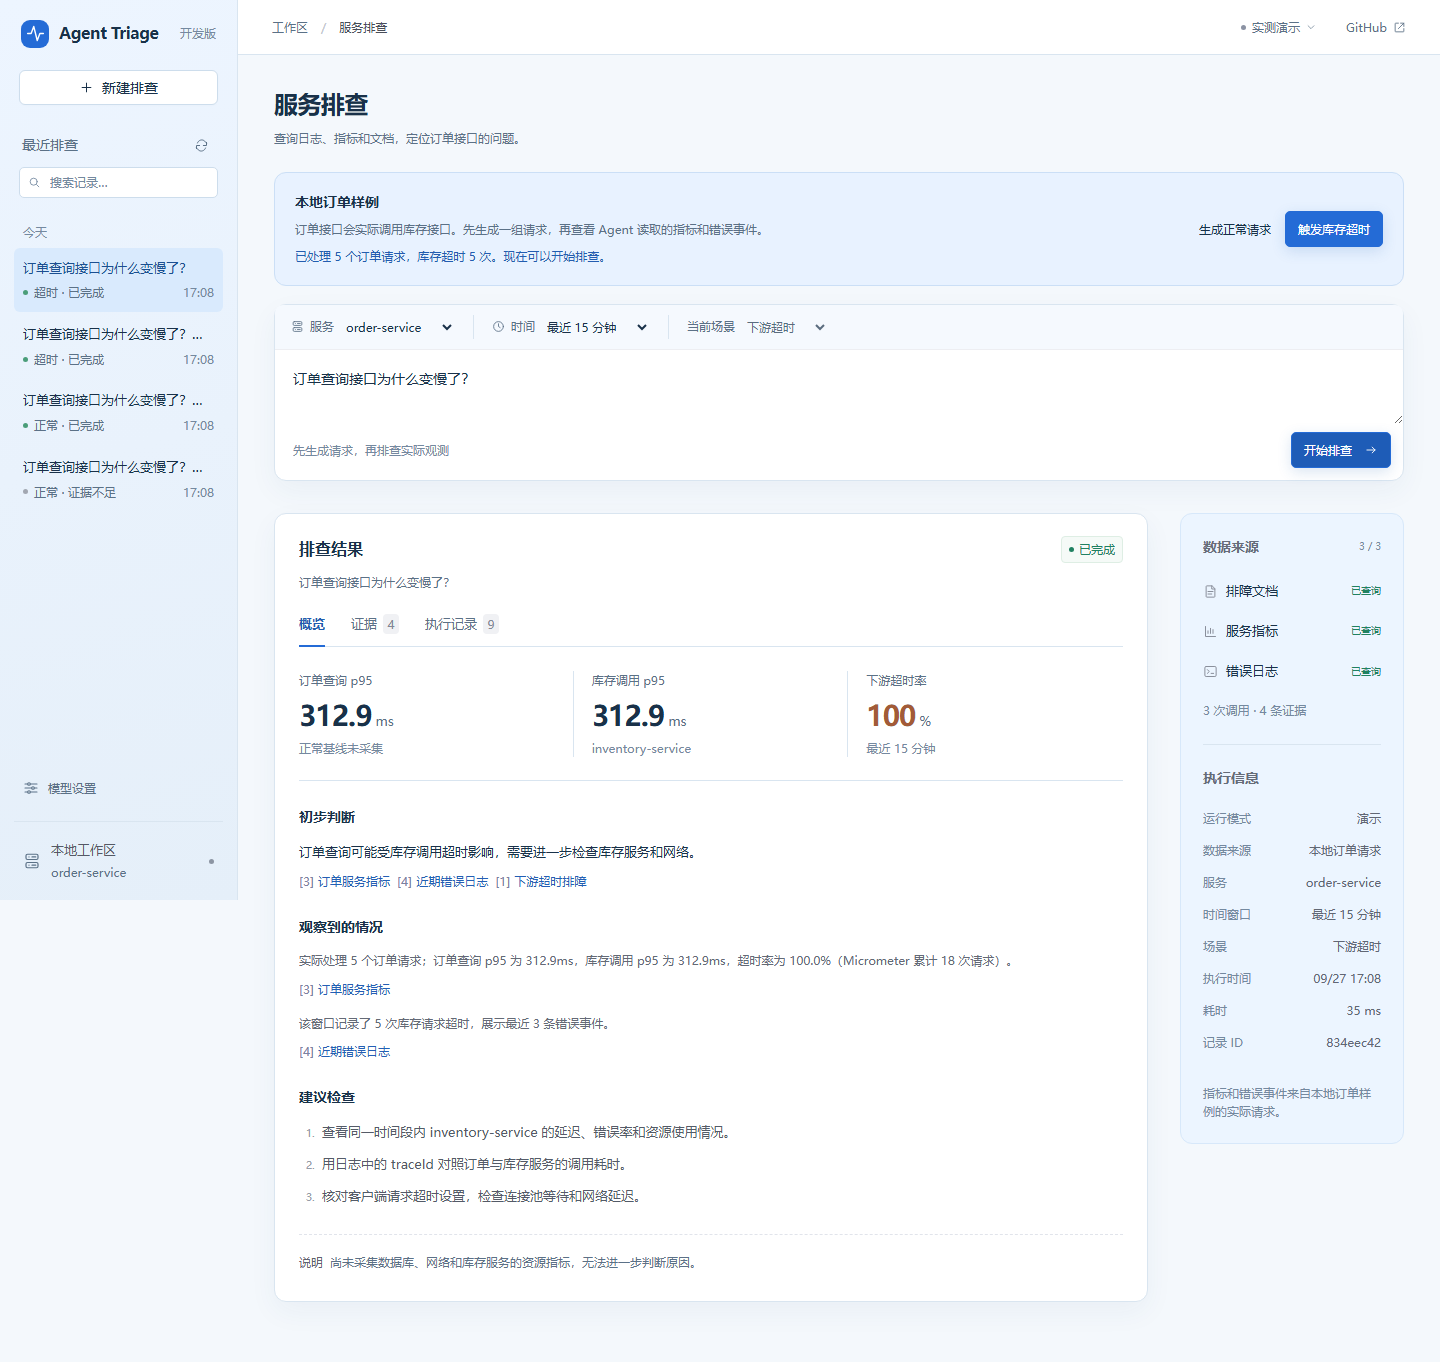
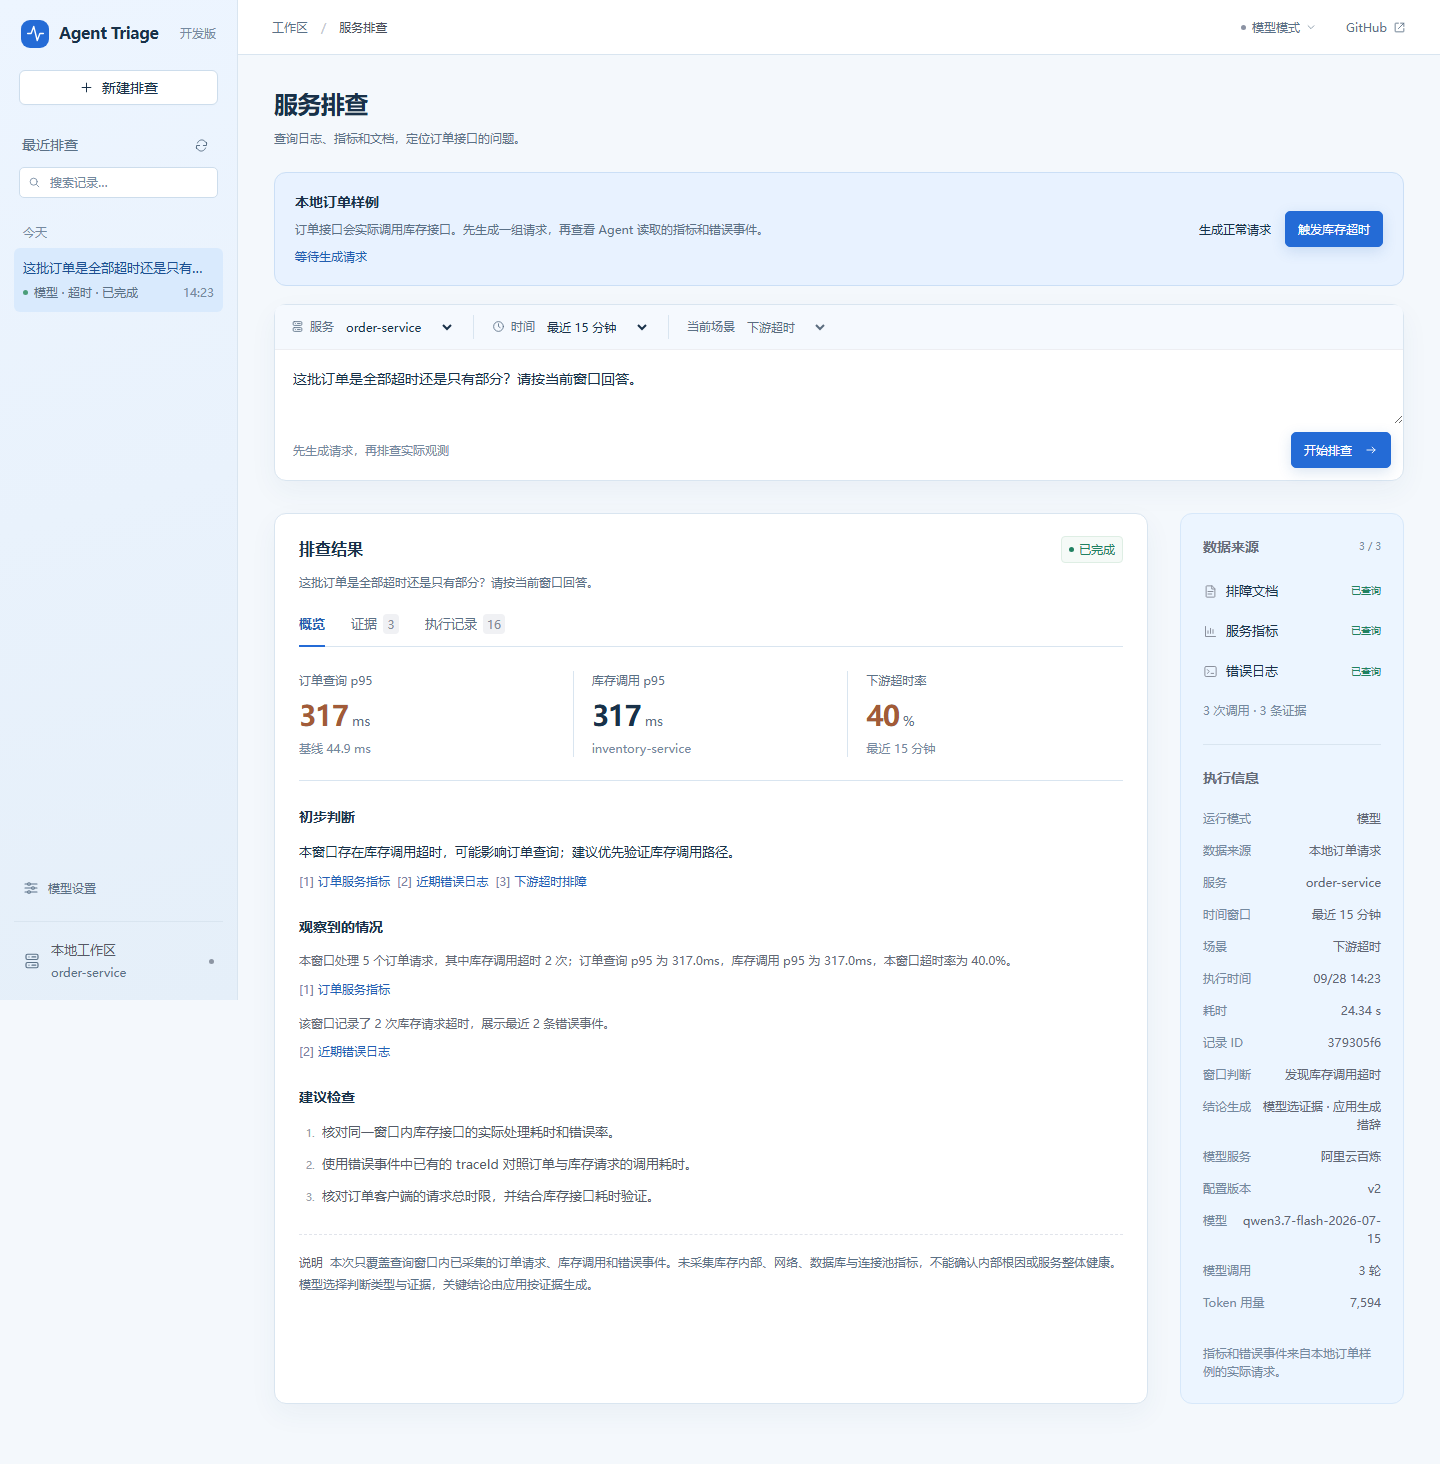
Record v2 development checks and mixed-window screenshot

diff --git a/docs/validation/2026-09-28-dev-contract.md b/docs/validation/2026-09-28-dev-contract.md
@@ -1,0 +1,22 @@
+# v2 调试集：证据约束输出
+
+使用百炼 `qwen3.7-flash-2026-07-15`，温度 0，最多 4 轮，输出上限 1600 token，单次模型时限 45 秒。订单与库存服务在独立 JVM 中处理实际 HTTP 请求，Agent 使用 LIVE 数据源。每例按 [v2 案例](../evaluation/cases-v2.json)重新生成请求，再分别运行仅文档问答和 Agent。
+
+首批 C01–C04 中，C01、C02、C03 都已取得三类证据，但最终选择未通过校验；C04 由无请求门槛结束。当时错误消息没有细分原因，不能断言三次失败原因完全相同。增加脱敏错误分类后，单独复查 C01，确认模型漏选了匹配的规则引用。随后补全输出格式的字段与数组限制，并在工具返回后按来源列出可选 ID；服务端的证据校验没有放宽。
+
+下表为修订后重新运行的全部 6 个调试案例。它属于调试结果，不是独立留出效果。代码版本为 `f5ec567`；[脱敏数据](2026-09-28-dev-contract.json)保留每例状态、来源、判断、耗时和 usage，不包含 Key、提供商配置 ID、执行 ID 或 traceId 明文。
+
+| 案例 | 实际窗口 | 仅文档 | Agent | 人工检查 |
+|---|---|---|---|---|
+| C01 追问数据库锁 | 5 请求，5 超时 | 证据不足 | 满足契约，3 工具 / 2 轮 | 优先验证库存调用路径，未确认数据库锁 |
+| C02 追问整体健康 | 5 请求，0 超时 | 证据不足 | 满足契约，3 工具 / 2 轮 | 只说明本窗口未发现库存超时 |
+| C03 混合窗口 | 5 请求，2 超时 | 证据不足 | 满足契约，3 工具 / 3 轮 | 40% 超时率与窗口记录一致，未说全部请求超时 |
+| C04 空窗口 | 0 请求 | 证据不足 | 应用门槛，2 工具 / 1 轮 | 明确无请求，未生成健康结论 |
+| C05 无关问题 | 2 请求，0 超时 | 应用范围门槛 | 应用范围门槛，0 工具 / 0 轮 | 两边均未请求模型 |
+| C06 规则缺口 | 3 请求，0 超时 | 证据不足 | 应用证据门槛，3 工具 / 1 轮 | 未检索到正常规则，未请求模型生成最终结论 |
+
+3 条成功结果的判断与观测方向一致，指标、日志和匹配规则的引用均有效，观察文字逐字来自工具摘要，且都有 `CONCLUSION_RENDERED`。另外 3 条来自应用门槛，不能计作模型自主判断。仅文档方法不能回答当前混合窗口的超时比例；C02 仍出现“库存读取超时”这一不准确术语，但没有据此确认整个服务健康。
+
+本轮仅文档共 5 次模型请求、11216 token，Agent 共 9 次、22463 token，均按服务端 usage 记录。此统计不包含首次失败、诊断复查或之前的连接测试，也不等于服务商账单。
+
+关键诊断句子由应用生成，因此本次检查的是系统的证据边界与模型选择能否接通。它不能证明模型自由归因能力提升，也不是生产诊断准确率。首次失败与诊断复查仍保存在本机忽略目录，未用后续成功结果覆盖。

diff --git a/docs/EVALUATION.md b/docs/EVALUATION.md
@@ -14,6 +14,8 @@ python scripts/compare_live_methods.py --allow-model-calls --dataset docs/evalua
 
 两条命令可能向已启用模型服务发起多轮计费请求。原始结果保存在被忽略的 `target/`，报告不包含 API Key、提供商配置 ID 和 traceId 明文。旧执行历史仍是旧版文本，页面会区分来源。
 
+[v2 调试记录](validation/2026-09-28-dev-contract.md)保留了最初三次校验失败、漏选规则的复查和修订后的 6 例结果：3 条满足契约，3 条由应用门槛结束。
+
 ## v1：历史记录
 
 案例集 [`cases-v1.json`](evaluation/cases-v1.json) 有 20 个问题，`dev` 和 `holdout` 各 10 个，两组已完成真实模型对照。固定规则的演示模式使用合成数据，真实模型对照使用 LIVE 请求；`expectedDemoStatus` 只用于演示模式的状态检查。
